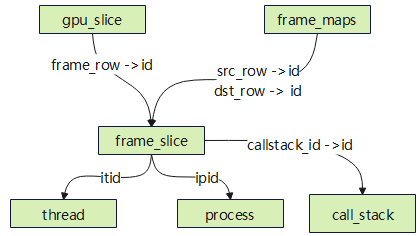
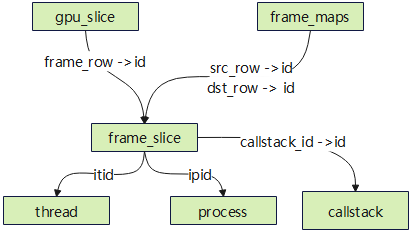
doc update true final

diff --git a/ide/src/doc/des_tables.html b/ide/src/doc/des_tables.html
@@ -4475,7 +4475,7 @@
       <li>ipid：进程内部编号</li>
       <li>end_state：线程的终结状态</li>
       <li>priority: 线程优先级</li>
-      <li>arg_setid：线程状态参数，对应args中arg_set</li>
+      <li>arg_setid：线程状态参数，对应args中argset</li>
     </ul>
     <h3>smaps表</h3>
     <h4>表结构</h4>
